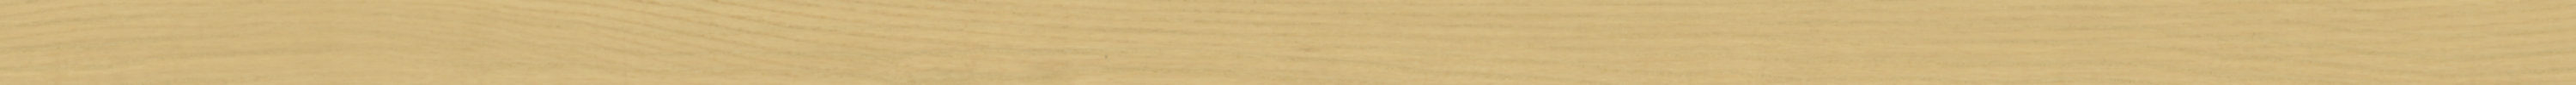
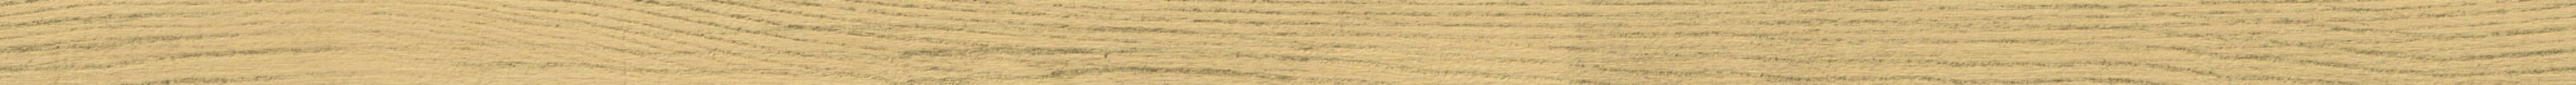
Test shelf: wood relief baked from normal map, bevelled board edge, book contact shadows

diff --git a/src/app/components/ShelfTest.tsx b/src/app/components/ShelfTest.tsx
@@ -17,6 +17,9 @@ const TEST_TILT_SCALE = 0.65;
 // Gap kept between a revealed book and the shelf edge after paging (px)
 const PAGE_EDGE_GAP = 16;
 
+// How far the books area extends over the board for contact shadows (px)
+const CONTACT_SHADOW_ROOM = 8;
+
 // Light wood texture for the board (alternative: '/shelf-wood-pine.jpg')
 const TEST_SHELF_IMAGE = '/shelf-wood-light.jpg';
 
@@ -338,7 +341,7 @@ export function ShelfTest() {
       {/* Books Container */}
       <div
         ref={scrollContainerRef}
-        className="overflow-hidden z-10 relative min-h-[285px]"
+        className="overflow-hidden z-30 relative min-h-[285px]"
         onTouchMove={handleTouchMove}
         onTouchEnd={handleTouchEnd}
         onTouchCancel={handleTouchEnd}
@@ -347,6 +350,9 @@ export function ShelfTest() {
           overflowX: 'hidden',
           overflowY: 'hidden',
           touchAction: 'pan-y',
+          // Extend over the top of the board so book contact shadows can land on it
+          paddingBottom: CONTACT_SHADOW_ROOM,
+          marginBottom: -CONTACT_SHADOW_ROOM,
         }}
       >
         <div
@@ -393,7 +399,7 @@ export function ShelfTest() {
                 data-book-id={book.id}
                 onMouseEnter={!isScrolling ? playClickSound : undefined}
                 onTouchStart={() => handleTouchStart(book.id)}
-                className="relative rounded-[2px] group cursor-pointer overflow-hidden"
+                className="relative rounded-[2px] group cursor-pointer"
                 style={{
                   width: widthPx,
                   height: heightPx,
@@ -432,33 +438,37 @@ export function ShelfTest() {
                 }}
                 transition={{ type: "spring", stiffness: 300, damping: 20 }}
               >
-                {/* Generated SVG spine */}
-                <div
-                  dangerouslySetInnerHTML={{ __html: svgStr }}
-                  style={{ width: '100%', height: '100%', display: 'block' }}
-                />
+                {/* Spine artwork, clipped to the rounded corners */}
+                <div className="absolute inset-0 overflow-hidden rounded-[2px]">
+                  {/* Generated SVG spine */}
+                  <div
+                    dangerouslySetInnerHTML={{ __html: svgStr }}
+                    style={{ width: '100%', height: '100%', display: 'block' }}
+                  />
 
-                {/* Paper noise canvas overlay */}
-                <canvas
-                  ref={(canvas) => {
-                    if (!canvas) return;
-                    canvas.width  = widthPx;
-                    canvas.height = heightPx;
-                    const ctx = canvas.getContext('2d');
-                    if (ctx) applyNoise(ctx, widthPx, heightPx);
-                  }}
-                  style={{ position: 'absolute', top: 0, left: 0, pointerEvents: 'none' }}
-                />
+                  {/* Paper noise canvas overlay */}
+                  <canvas
+                    ref={(canvas) => {
+                      if (!canvas) return;
+                      canvas.width  = widthPx;
+                      canvas.height = heightPx;
+                      const ctx = canvas.getContext('2d');
+                      if (ctx) applyNoise(ctx, widthPx, heightPx);
+                    }}
+                    style={{ position: 'absolute', top: 0, left: 0, pointerEvents: 'none' }}
+                  />
+                </div>
 
-                {/* Base contact shadow on the shelf */}
+                {/* Contact shadow on the top edge of the board; fades out when the book is lifted */}
                 <div
-                  className="absolute bottom-0 left-1/2 -translate-x-1/2 pointer-events-none z-[-1]"
+                  className={`absolute pointer-events-none z-[-1] transition-opacity duration-200 group-hover:opacity-0 ${isTouched ? 'opacity-0' : ''}`}
                   style={{
-                    width: `${widthPx + 8 + absTilt * 2}px`,
-                    height: `${4 + absTilt * 1.5}px`,
-                    background: `radial-gradient(ellipse at center, rgba(0,0,0,${baseShadowOpacity * 0.8}) 0%, rgba(0,0,0,0) 70%)`,
-                    transform: `translateY(${2 + absTilt * 0.5}px)`,
-                    filter: `blur(${2 + absTilt}px)`,
+                    left: -3 - absTilt,
+                    right: -3 - absTilt,
+                    top: 'calc(100% - 2px)',
+                    height: 7,
+                    background: `radial-gradient(ellipse 50% 100% at 50% 0%, rgba(0,0,0,${Math.min(0.25 + shadowOpacity * 0.35, 0.55)}) 0%, rgba(0,0,0,0) 100%)`,
+                    filter: 'blur(1px)',
                   }}
                 />
               </motion.div>
@@ -490,7 +500,7 @@ export function ShelfTest() {
       )}
 
       {/* Shelf Board */}
-      <div className="relative h-6 w-full shadow-xl z-20">
+      <div className="relative h-6 w-full shadow-xl z-20 rounded-b-[2px]">
         <div
           className="absolute inset-0 w-full h-full"
           style={{
@@ -501,14 +511,15 @@ export function ShelfTest() {
             backgroundPosition: 'left center',
           }}
         >
-          <div className="absolute top-0 left-0 right-0 h-[1px] bg-white/30"></div>
+          {/* Bevel: light catches the rounded top edge, the face darkens toward the bottom */}
           <div
-            className="absolute inset-0 border-t"
+            className="absolute inset-0 rounded-b-[2px]"
             style={{
-              borderColor: 'rgba(255,255,255,0.15)',
-              background: 'linear-gradient(to bottom, rgba(255,255,255,0.05), rgba(0,0,0,0.08))',
+              background: 'linear-gradient(to bottom, rgba(255,255,255,0.6) 0px, rgba(255,255,255,0.2) 2px, rgba(255,255,255,0) 35%, rgba(0,0,0,0.06) 65%, rgba(0,0,0,0.22) 100%)',
             }}
           ></div>
+          {/* Thin dark line along the bottom edge */}
+          <div className="absolute bottom-0 left-0 right-0 h-[1px] bg-black/30"></div>
         </div>
         <div
           className="absolute left-0 right-0 h-16 pointer-events-none top-[calc(100%-4px)]"
